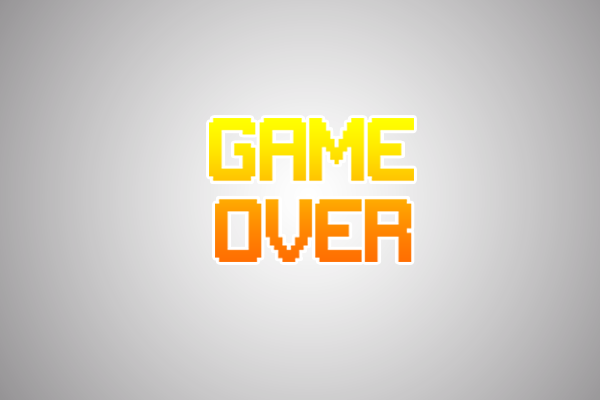
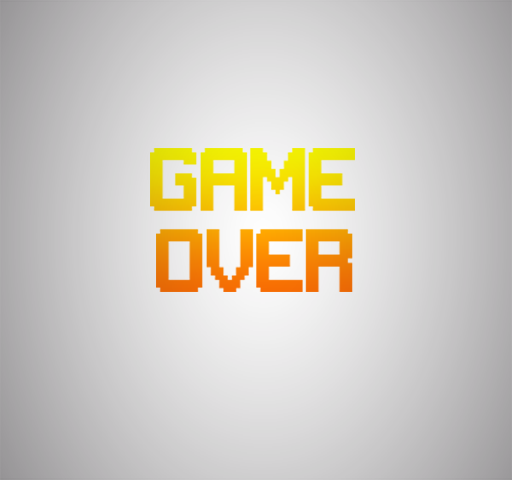
Cotuca Games v1.3.8
O Último Herói:
- Adicionados botões Iniciar e Reiniciar;
- Tela de Game Over posicionada;
- JavaScript alterado.

Changed region(s): [[0.2812, 0.27, 0.7188, 0.66]]

diff --git a/cotuca-games-ultimoHeroi.html b/cotuca-games-ultimoHeroi.html
@@ -16,8 +16,7 @@
                 <li><a class="logo" href="cotuca-games-home.html"><img class="logo" src=".\img\geral\logo-site.png"></a></li>
             </ul>
             <ul class="menu">
-                <li><a href="cotuca-games-home.html"><img class="home" style="padding-bottom: 5px;" src=".\img\geral\home.png"></a></li>                
-                <li><a id="abas" href="cotuca-games-sobre.html">SOBRE</a></li>   
+                <li><a href="cotuca-games-home.html"><img class="home" style="padding-bottom: 5px;" src=".\img\geral\home.png"></a></li>     <li><a id="abas" href="cotuca-games-sobre.html">SOBRE</a></li>   
                 <li><a id="abas" href="cotuca-games-jogos.html">JOGOS</a></li>
             </ul>
         </nav>
@@ -27,11 +26,17 @@
         <hr class="separacao" style="top: 35px;">        
 
         <center>
-            <canvas id="meuCanvas" width="512" height="480"
-                style="border:1px solid #000; position: relative; top: 80px">
-                Atualize seu browser para ver o CANVAS
-            </canvas>
+        	<div style="width: 512px; height: 480px">
+        		<canvas id="meuCanvas" width="512" height="480"
+                	style="border:1px solid #000; position: relative; top: 80px">
+                	Atualize seu browser para ver o CANVAS
+            	</canvas>
+				<img id="game-over" src="./img/jogos/geral/game-over.png">	
 
+				<button id="btnIniciar" onclick="cliqueIniciar();" style="left: 580px; top: 645px;">Iniciar</button>
+
+            	<button id="btnReiniciar" onclick="location.reload();" disabled="true" style="left: 580px; top: 645px;">Reiniciar</button>
+        	</div>
             <br>
             <label id="pt">Pontuacao: 0</label>
             <br>

diff --git a/js/CotucaUltimoHeroi.js b/js/CotucaUltimoHeroi.js
@@ -485,7 +485,8 @@ function testeColisao()
         if(gameOver)
         {
             AtualizaTela();
-            alert("Game Over");
+            var imagem = document.getElementById("game-over");
+            imagem.style.visibility = "visible";
             location.reload();
         }
     }

diff --git a/css/cotuca-ultimoHeroi.css b/css/cotuca-ultimoHeroi.css
@@ -3,3 +3,11 @@
 	top         : 100px; 
 	font-family : Century Gothic; 
 }
+
+#game-over{
+	position   : relative; 
+	top        : -400px; 
+	z-index    : 1000;
+	width      : 512px;
+	visibility : hidden;  
+}
